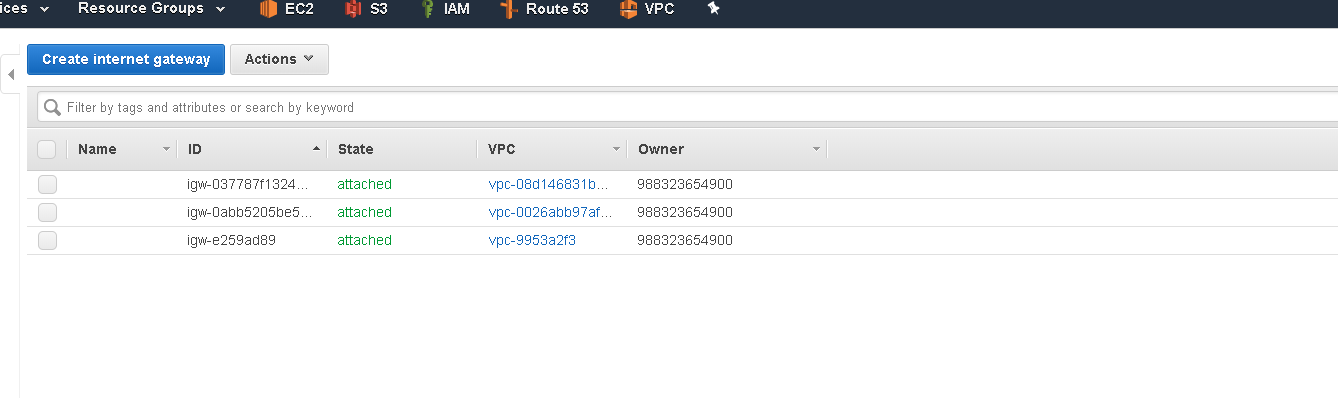
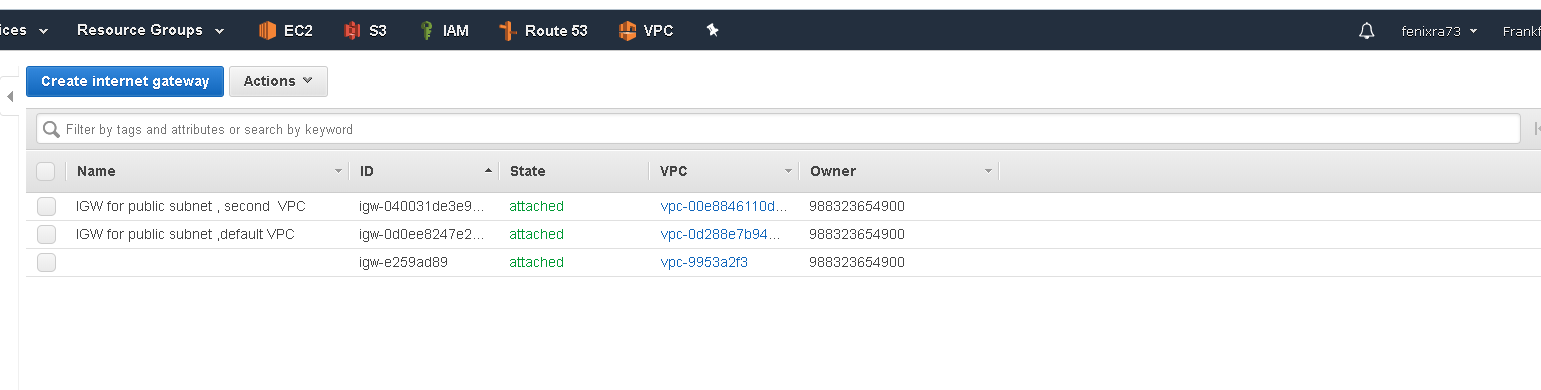
update task (add 2 instanses)

Changed region(s): [[0.0, 0.0, 1.0, 0.4], [0.0, 0.4308, 1.0, 0.7077]]

diff --git a/task6-aws-terraform-v1/readme.md b/task6-aws-terraform-v1/readme.md
@@ -10,6 +10,8 @@ Homewok:
 # SOLUTION
 For solving task will be used Terraform.
 
+![](https://github.com/fenixra73/Dnipro_DevOps_int_2020/raw/master/task6-aws-terraform-v1/screenshot/diagrama.png) 
+
 Steps of solution:
 1. Created IAM policy "S3ReadOnly"
 2. Created IAM instancew profile
@@ -21,22 +23,28 @@ Steps of solution:
 8. Created subnet "eu-central-1a-public-second" cidr_block="192.168.1.0/24" in VPC  "Second"
 9. Created IGW for VPC "Default" and IGW for  VPC "Second"
 10. Attached IGW for each VPS
-11. Created route tables for subnets "eu-central-1a-public" and "eu-central-1a-public-second"
-12. Assotiated route tables with both subnets.
+11. Created route tables for subnets "eu-central-1a-public","eu-central-1a-private" and "eu-central-1a-public-second"
+12. Assotiated route tables with subnets.
 13. Created peering connection between VPC "Default" and VPC  "Second"
 14. Created ACL and attach it to subnet "eu-central-1a-public"
-15. Created Security group  "my_web" for VPC "Default"
-16. Launched EC2 instanse in "eu-central-1a-public" subnet and attached to instanse:
+15. Created Security group  "my_web" for VPC "Default", "my_web2" for VPC "Second"
+16. Launched EC2 instanse named "Nginx" in "eu-central-1a-public" subnet and attached to instanse:
    - IAM role "s3_read_role"
    - Security group  "my_web"
    - user_data scripts user_data.sh
-17. While instanse runing, script does:
+    Launched EC2 instanse named "Linux" in "eu-central-1a-private" subnet
+    Launched EC2 instanse named "Nginx2" in "eu-central-1a-public-second" subnet and attached to instanse:
+   - IAM role "s3_read_role"
+   - Security group  "my_web2"
+   - user_data scripts user_data.sh
+17. While instanses runing, script does:
    - Update yum
    - Install nginx
    - Via AWS Cli syncing s3 backet "fenixra-site" to root folder Nginx /usr/share/nginx/html/
    - Maked chown for user nginx /usr/share/nginx/html/*
    - enable nginx and start.
 18. Result - in subnet  "eu-central-1a-public" runing web server with a personal web site
+19. Ping to subnets (check avalaibility)
 
 ### 1. Created IAM policy "S3ReadOnly"
 create_iam_policy.tf
@@ -118,15 +126,15 @@ resource "aws_vpc" "default" {
     Name = "main_vpc"
   }
 }
-/*
- add IGW (internet gateway)
-*/
+/* add IGW (internet gateway) */
 resource "aws_internet_gateway" "default" {
   vpc_id = aws_vpc.default.id
+  tags = {
+   Name = "IGW for public subnet ,default VPC"
+  }
 }
-/*
-  Public Subnet
-*/
+
+/*  Public Subnet */
 resource "aws_subnet" "eu-central-1a-public" {
   vpc_id = aws_vpc.default.id
   cidr_block = "10.0.1.0/24"
@@ -134,30 +142,30 @@ resource "aws_subnet" "eu-central-1a-public" {
   tags =  {
       Name = "Public Subnet"
   }
-}
-/*
-  create route table for public subnet
-*/
+
+/*   create route table for public subnet */
 resource "aws_route_table" "eu-central-1a-public" {
   vpc_id = aws_vpc.default.id
   route {
       cidr_block = "0.0.0.0/0"
       gateway_id = aws_internet_gateway.default.id
   }
+  route {
+      cidr_block = "192.168.1.0/24"
+      gateway_id = aws_vpc_peering_connection.bridge.id
+  }
   tags = {
       Name = "Public Subnet"
   }
 }
-/*
- assotiate route table with public subnet
-*/
+
+/* assotiate route table with public subnet */
 resource "aws_route_table_association" "eu-central-1a-public" {
   subnet_id = aws_subnet.eu-central-1a-public.id
   route_table_id = aws_route_table.eu-central-1a-public.id
 }
-/*
-  Private Subnet
-*/
+
+/*  Private Subnet */
 resource "aws_subnet" "eu-central-1a-private" {
   vpc_id = aws_vpc.default.id
   cidr_block = "10.0.2.0/24"
@@ -166,24 +174,43 @@ resource "aws_subnet" "eu-central-1a-private" {
       Name = "Private Subnet"
   }
 }
-/*
- Create second VPC
-*/
+
+/*   create route table for private  subnet */
+resource "aws_route_table" "eu-central-1a-private" {
+  vpc_id = aws_vpc.default.id
+  route {
+      cidr_block = "192.168.1.0/24"
+      gateway_id = aws_vpc_peering_connection.bridge.id
+   
+  }
+  tags = {
+      Name = "Routetable Private Subnet"
+  }
+}
+
+/* assotiate route table with private subnet */
+resource "aws_route_table_association" "eu-central-1a-private" {
+  subnet_id = aws_subnet.eu-central-1a-private.id
+  route_table_id = aws_route_table.eu-central-1a-private.id
+}
+
+/* Create second VPC */
 resource "aws_vpc" "second" {
   cidr_block       = "192.168.0.0/16"
   tags = {
     Name = "second_vpc"
   }
 }
-/*
- add IGW for second VPC (internet gateway)
-*/
+/* add IGW for second VPC (internet gateway) */
+
 resource "aws_internet_gateway" "second" {
   vpc_id = aws_vpc.second.id
+  tags = {
+    Name = "IGW for public subnet , second  VPC"
+  }
 }
-/*
-  Public Subnet second VPC
-*/
+
+/*  Public Subnet second VPC */
 resource "aws_subnet" "eu-central-1a-public-second" {
   vpc_id = aws_vpc.second.id
   cidr_block = "192.168.1.0/24"
@@ -192,33 +219,27 @@ resource "aws_subnet" "eu-central-1a-public-second" {
       Name = "Second Public Subnet in Second VPC"
   }
 }
-/*
-  create route table for public subnet in second VPC
-*/
+
+/*  create route table for public subnet in second VPC */
 resource "aws_route_table" "eu-central-1a-public-second" {
   vpc_id = aws_vpc.second.id
   route {
       cidr_block = "0.0.0.0/0"
       gateway_id = aws_internet_gateway.second.id
   }
+  route {
+      cidr_block = "10.0.1.0/24"
+      gateway_id = aws_vpc_peering_connection.bridge.id
+  }
   tags = {
       Name = "Second Route table Public Subnet for second VPC"
   }
 }
-/*
- assotiate route table with public subnet second VPC
-*/
+
+/* assotiate route table with public subnet second VPC */
 resource "aws_route_table_association" "eu-central-1a-public-second" {
   subnet_id = aws_subnet.eu-central-1a-public-second.id
   route_table_id = aws_route_table.eu-central-1a-public-second.id
-}
-```
-### 13. Created peering connection between VPC "Default" and VPC  "Second"
-peering_connection.tf
-```
-resource "aws_vpc_peering_connection" "bridge" {
-  peer_vpc_id   = aws_vpc.default.id
-  vpc_id        = aws_vpc.second.id
 }
 ```
 ### 14. Created ACL and attach it to subnet "eu-central-1a-public"
@@ -265,6 +286,12 @@ resource "aws_security_group" "my_web" {
       cidr_blocks = ["0.0.0.0/0"]
     }
   }
+  ingress {
+    from_port   = -1
+    to_port     = -1
+    protocol    = "icmp"
+    cidr_blocks = ["0.0.0.0/0"]
+  }
   egress {
     from_port   = 0
     to_port     = 0
@@ -276,6 +303,37 @@ resource "aws_security_group" "my_web" {
     Owner = "Kozulenko Volodymyr"
   }
 }
+resource "aws_security_group" "my_web2" {
+  name        = "Security Group 2 for AWS task6"
+  description = "SG 2 for AWS task6"
+  vpc_id      = aws_vpc.second.id
+  dynamic "ingress" {
+    for_each = ["80", "22", "443"]
+    content {
+      from_port   = ingress.value
+      to_port     = ingress.value
+      protocol    = "tcp"
+      cidr_blocks = ["0.0.0.0/0"]
+    }
+  }
+  ingress {
+    from_port   = -1
+    to_port     = -1
+    protocol    = "icmp"
+    cidr_blocks = ["0.0.0.0/0"]
+  }
+  egress {
+    from_port   = 0
+    to_port     = 0
+    protocol    = "-1"
+    cidr_blocks = ["0.0.0.0/0"]
+  }
+  tags = {
+    Name  = "Security Group for AWS task6"
+    Owner = "Kozulenko Volodymyr"
+  }
+}
+
 ```
 ### 16. Launched EC2 instanse in "eu-central-1a-public" subnet and attached to instanse:
 create_ec2_instance.tf
@@ -283,6 +341,8 @@ create_ec2_instance.tf
 provider "aws" {
   region                 = "eu-central-1"
  }
+
+
 resource "aws_instance" "nginx_task_aws" {
   ami                    = "ami-0d4c3eabb9e72650a"
   instance_type          = "t2.micro"
@@ -298,6 +358,35 @@ resource "aws_instance" "nginx_task_aws" {
   }
   user_data = file("user_data.sh")
 }
+resource "aws_instance" "nginx2_task_aws" {
+  ami                    = "ami-0d4c3eabb9e72650a"
+  instance_type          = "t2.micro"
+  iam_instance_profile   = aws_iam_instance_profile.s3_read_profile.name
+  vpc_security_group_ids = [aws_security_group.my_web2.id]
+  subnet_id              = aws_subnet.eu-central-1a-public-second.id
+  associate_public_ip_address = true
+  key_name               = "jenkins"
+  tags = {
+    Name    = "Nginx2"
+    Owner   = "Kozulenko Volodymyr"
+    Project = "Terraform AWS task6"
+  }
+  user_data = file("user_data.sh")
+}
+resource "aws_instance" "linux_task_aws" {
+  ami                    = "ami-0d4c3eabb9e72650a"
+  instance_type          = "t2.micro"
+  iam_instance_profile   = aws_iam_instance_profile.s3_read_profile.name
+  vpc_security_group_ids = [aws_security_group.my_web.id]
+  subnet_id              = aws_subnet.eu-central-1a-private.id
+  associate_public_ip_address = true
+  key_name               = "jenkins"
+  tags = {
+    Name    = "linux"
+    Owner   = "Kozulenko Volodymyr"
+    Project = "Terraform AWS task6"
+  }
+}
 ```
 ### 17. While instanse runing, script does:
 user_data.sh
@@ -305,12 +394,12 @@ user_data.sh
 #!/bin/bash
 sudo yum update -y
 sudo amazon-linux-extras install -y nginx1
-sudo aws sync s3://fenixra-site /usr/share/nginx/html/
+sudo aws s3 sync s3://fenixra-site /usr/share/nginx/html/
 sudo chown nginx:nginx -R /usr/share/nginx/html/
 sudo systemctl enable nginx
 sudo systemctl start nginx
 ```
-### Results of "terraform apply"
+### Results of "terraform apply" and Ping check
 ![](https://github.com/fenixra73/Dnipro_DevOps_int_2020/raw/master/task6-aws-terraform-v1/screenshot/pic1.png)   
 ![](https://github.com/fenixra73/Dnipro_DevOps_int_2020/raw/master/task6-aws-terraform-v1/screenshot/pic2.png)   
 ![](https://github.com/fenixra73/Dnipro_DevOps_int_2020/raw/master/task6-aws-terraform-v1/screenshot/pic3.png)     
@@ -323,7 +412,9 @@ sudo systemctl start nginx
 ![](https://github.com/fenixra73/Dnipro_DevOps_int_2020/raw/master/task6-aws-terraform-v1/screenshot/pic10.png)     
 ![](https://github.com/fenixra73/Dnipro_DevOps_int_2020/raw/master/task6-aws-terraform-v1/screenshot/pic11.png) 
 ![](https://github.com/fenixra73/Dnipro_DevOps_int_2020/raw/master/task6-aws-terraform-v1/screenshot/pic12.png) 
-![](https://github.com/fenixra73/Dnipro_DevOps_int_2020/raw/master/task6-aws-terraform-v1/screenshot/pic13.png)     
+![](https://github.com/fenixra73/Dnipro_DevOps_int_2020/raw/master/task6-aws-terraform-v1/screenshot/pic13.png)  
+![](https://github.com/fenixra73/Dnipro_DevOps_int_2020/raw/master/task6-aws-terraform-v1/screenshot/pic14.png)
+![](https://github.com/fenixra73/Dnipro_DevOps_int_2020/raw/master/task6-aws-terraform-v1/screenshot/pic15.png)   
     
 
 # terraform plan
